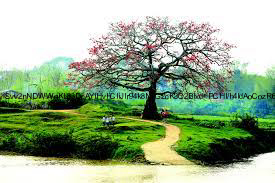
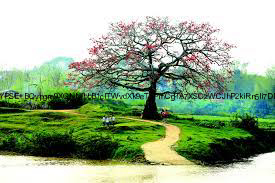
complete v1 7/5/2023

Changed region(s): [[0.0, 0.4918, 1.0, 0.5738]]

diff --git a/src/routes/index.js b/src/routes/index.js
@@ -6,8 +6,7 @@ const {
   decryptedData,
 } = require("../utils/genRSA");
 const watermark = require("jimp-watermark");
-const { hashPassword } = require("../utils/hashPassword");
-const { getUserDb, createUserDb } = require("../db/user.db");
+const { getUserDb, createUserDb, editUserDb } = require("../db/user.db");
 const apiResponse = require("../utils/apiResponse");
 const APIStatus = require("../constants/APIStatus");
 const route = (app) => {
@@ -22,7 +21,7 @@ const route = (app) => {
     "image_8.jpg",
     "image_9.jpg",
   ];
-  // /
+  // Client nhập username và gửi cho server
   app.post("/", async (req, res) => {
     try {
       const { username } = req.body;
@@ -36,35 +35,42 @@ const route = (app) => {
         );
       }
 
-      // create hash RSA
-      var textPass;
-      fileNames.forEach(async (fileName) => {
-        if (
-          fileName == "image_7.jpg" ||
-          fileName == "image_8.jpg" ||
-          fileName == "image_9.jpg"
-        ) {
-          textPass = encryptedData(
-            Math.random().toString(36).substring(2, 7),
-            publicKey
-          ).toString("base64");
-        } else {
-          textPass = encryptedData(user.password, publicKey).toString("base64");
-        }
-        // embed
-        await watermark.addTextWatermark(`./src/images/${fileName}`, {
-          text: textPass,
-          textSize: 1, //Should be between 1-8
-          dstPath: `./src/images/public/${fileName}`,
-        });
+      // Tạo text random và lưu vào db
+      let listTextRandom = [];
+      for (let i = 0; i <= 5; i++) {
+        listTextRandom[i] = Math.random().toString(36).substring(2, 7);
+      }
+      await editUserDb({
+        _id: user._id,
+        listTextRandom: listTextRandom,
       });
+
+      // RSA textrandom và gửi về cho client
+      let listTextRandomRSA = [];
+      for (let i = 0; i <= 5; i++) {
+        listTextRandomRSA[i] = encryptedData(
+          listTextRandom[i],
+          publicKey
+        ).toString("base64");
+      }
+
+      // Lấy 6 url và 6 text gửi về client
       return res.status(200).json(
         apiResponse({
           status: APIStatus.SUCCESS,
           msg: "Success",
-          data: "",
+          data: {
+            listTextRandomRSA: listTextRandomRSA,
+            listUrlImages: user.listUrlImages,
+          },
         })
       );
+      // // embed
+      // await watermark.addTextWatermark(`./src/images/${fileName}`, {
+      //   text: textPass,
+      //   textSize: 1, //Should be between 1-8
+      //   dstPath: `./src/images/public/${fileName}`,
+      // });
     } catch (err) {
       console.log(err);
     }
@@ -73,23 +79,32 @@ const route = (app) => {
   // login
   app.post("/login", async (req, res, next) => {
     try {
-      const { username, password } = req.body;
+      const { username, listTextRandomRSA } = req.body;
       const user = await getUserDb({ username });
-      const passwordDb = user.password;
-      let listDecryptPassword = [];
-      for (let i = 0; i < password.length; i++) {
-        listDecryptPassword.push(
+      if (!user) {
+        return res.status(404).json(
+          apiResponse({
+            status: APIStatus.FAIL,
+            msg: "Username not found",
+          })
+        );
+      }
+      let listDecryptTextRandom = [];
+      for (let i = 0; i < 6; i++) {
+        listDecryptTextRandom.push(
           decryptedData(
-            Buffer.from(password[i], "base64"),
+            Buffer.from(listTextRandomRSA[i], "base64"),
             privateKey
           ).toString()
         );
       }
       let count = 0;
-      listDecryptPassword.forEach((i) => {
-        if (i == passwordDb) {
-          count++;
-        }
+      let listTextRandom = user.listTextRandoms;
+      console.log(listTextRandom);
+      listTextRandom.forEach((i) => {
+        listDecryptTextRandom.forEach((j) => {
+          if (i == j) count++;
+        });
       });
       if (count == 6)
         return res.status(200).json(
@@ -119,28 +134,32 @@ const route = (app) => {
 
   // register
   app.post("/register", async (req, res, next) => {
-    const { username, password, fullName } = req.body;
+    const { username, fullName, listUrlImages } = req.body;
     const [user1, user2] = await Promise.all([getUserDb({ username })]);
     if (user1 || user2) {
       return res.status(409).json(
         apiResponse({
           status: APIStatus.FAIL,
-          msg: "username existed",
+          msg: "Username existed",
         })
       );
     }
 
-    const hashedPw = await hashPassword(password);
+    let listTextRandom = [];
+    for (let i = 0; i <= 5; i++) {
+      listTextRandom[i] = Math.random().toString(36).substring(2, 7);
+    }
     const user = await createUserDb({
       username,
-      password: hashedPw,
       fullName,
+      listUrlImages,
+      listTextRandoms: listTextRandom,
     });
     if (!user)
       return res.status(400).json(
         apiResponse({
           status: APIStatus.ERROR,
-          msg: "can not create new user",
+          msg: "Can not create new user",
         })
       );
 

diff --git a/src/db/user.db.js b/src/db/user.db.js
@@ -9,12 +9,31 @@ const getUserDb = async (query) => {
 
 // Create user
 const createUserDb = async (query) => {
-  const user = await new User(query).save();
+  try {
+    const user = await new User(query).save();
+    return user;
+  } catch (error) {
+    console.error("createUserDb: " + error);
+  }
+};
 
-  return user;
+// Edit info
+const editUserDb = async (query) => {
+  try {
+    const { _id, listTextRandom } = query;
+    const userForEdit = await getUserDb({ _id });
+
+    userForEdit.listTextRandoms = listTextRandom;
+
+    const rs = await userForEdit.save();
+    return rs;
+  } catch (error) {
+    console.error("editUserDb: " + error);
+  }
 };
 
 module.exports = {
   getUserDb,
   createUserDb,
+  editUserDb,
 };

diff --git a/src/models/user.model.js b/src/models/user.model.js
@@ -11,11 +11,19 @@ const userSchema = new mongoose.Schema(
     },
     password: {
       type: String,
-      required: true,
+      required: false,
     },
     fullName: {
       type: String,
       required: true,
+    },
+    listTextRandoms: {
+      type: Array,
+      required: false,
+    },
+    listUrlImages: {
+      type: Array,
+      required: false,
     },
   },
   {

diff --git a/src/config/index.js b/src/config/index.js
@@ -1,6 +1,8 @@
 const port = process.env.PORT || 4000;
 const database_url =
   process.env.DATABASE_URL || "mongodb://localhost:27017/water_mark";
+// mongodb+srv://dbUser:FIpHnXixX7rcja2U@cluster0.ajon7.mongodb.net/water_mark
+// mongodb://localhost:27017/water_mark
 
 module.exports = {
   port,
